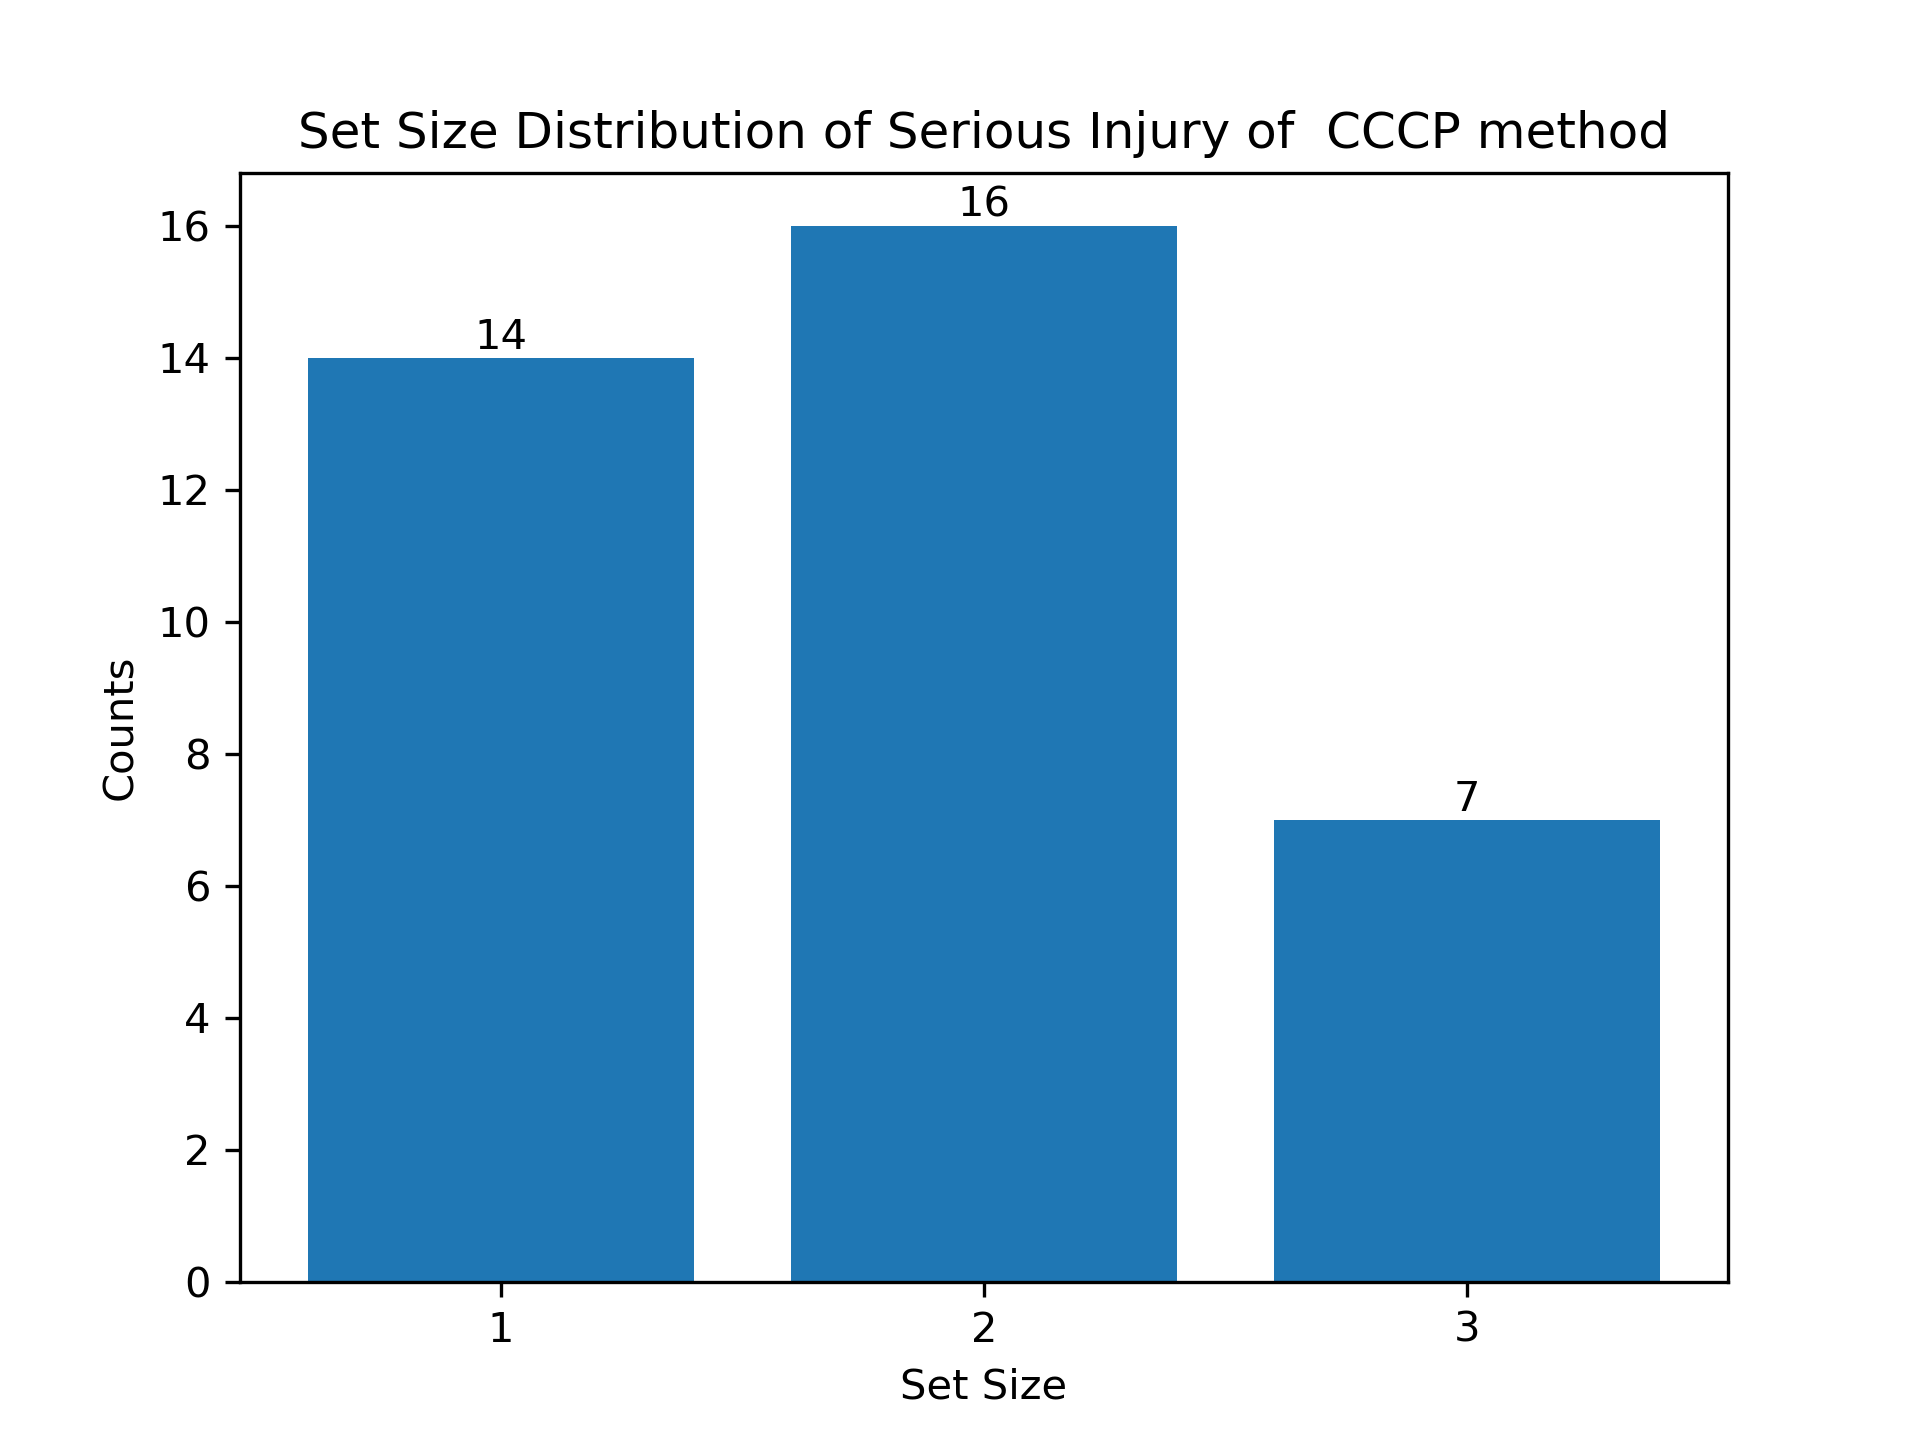
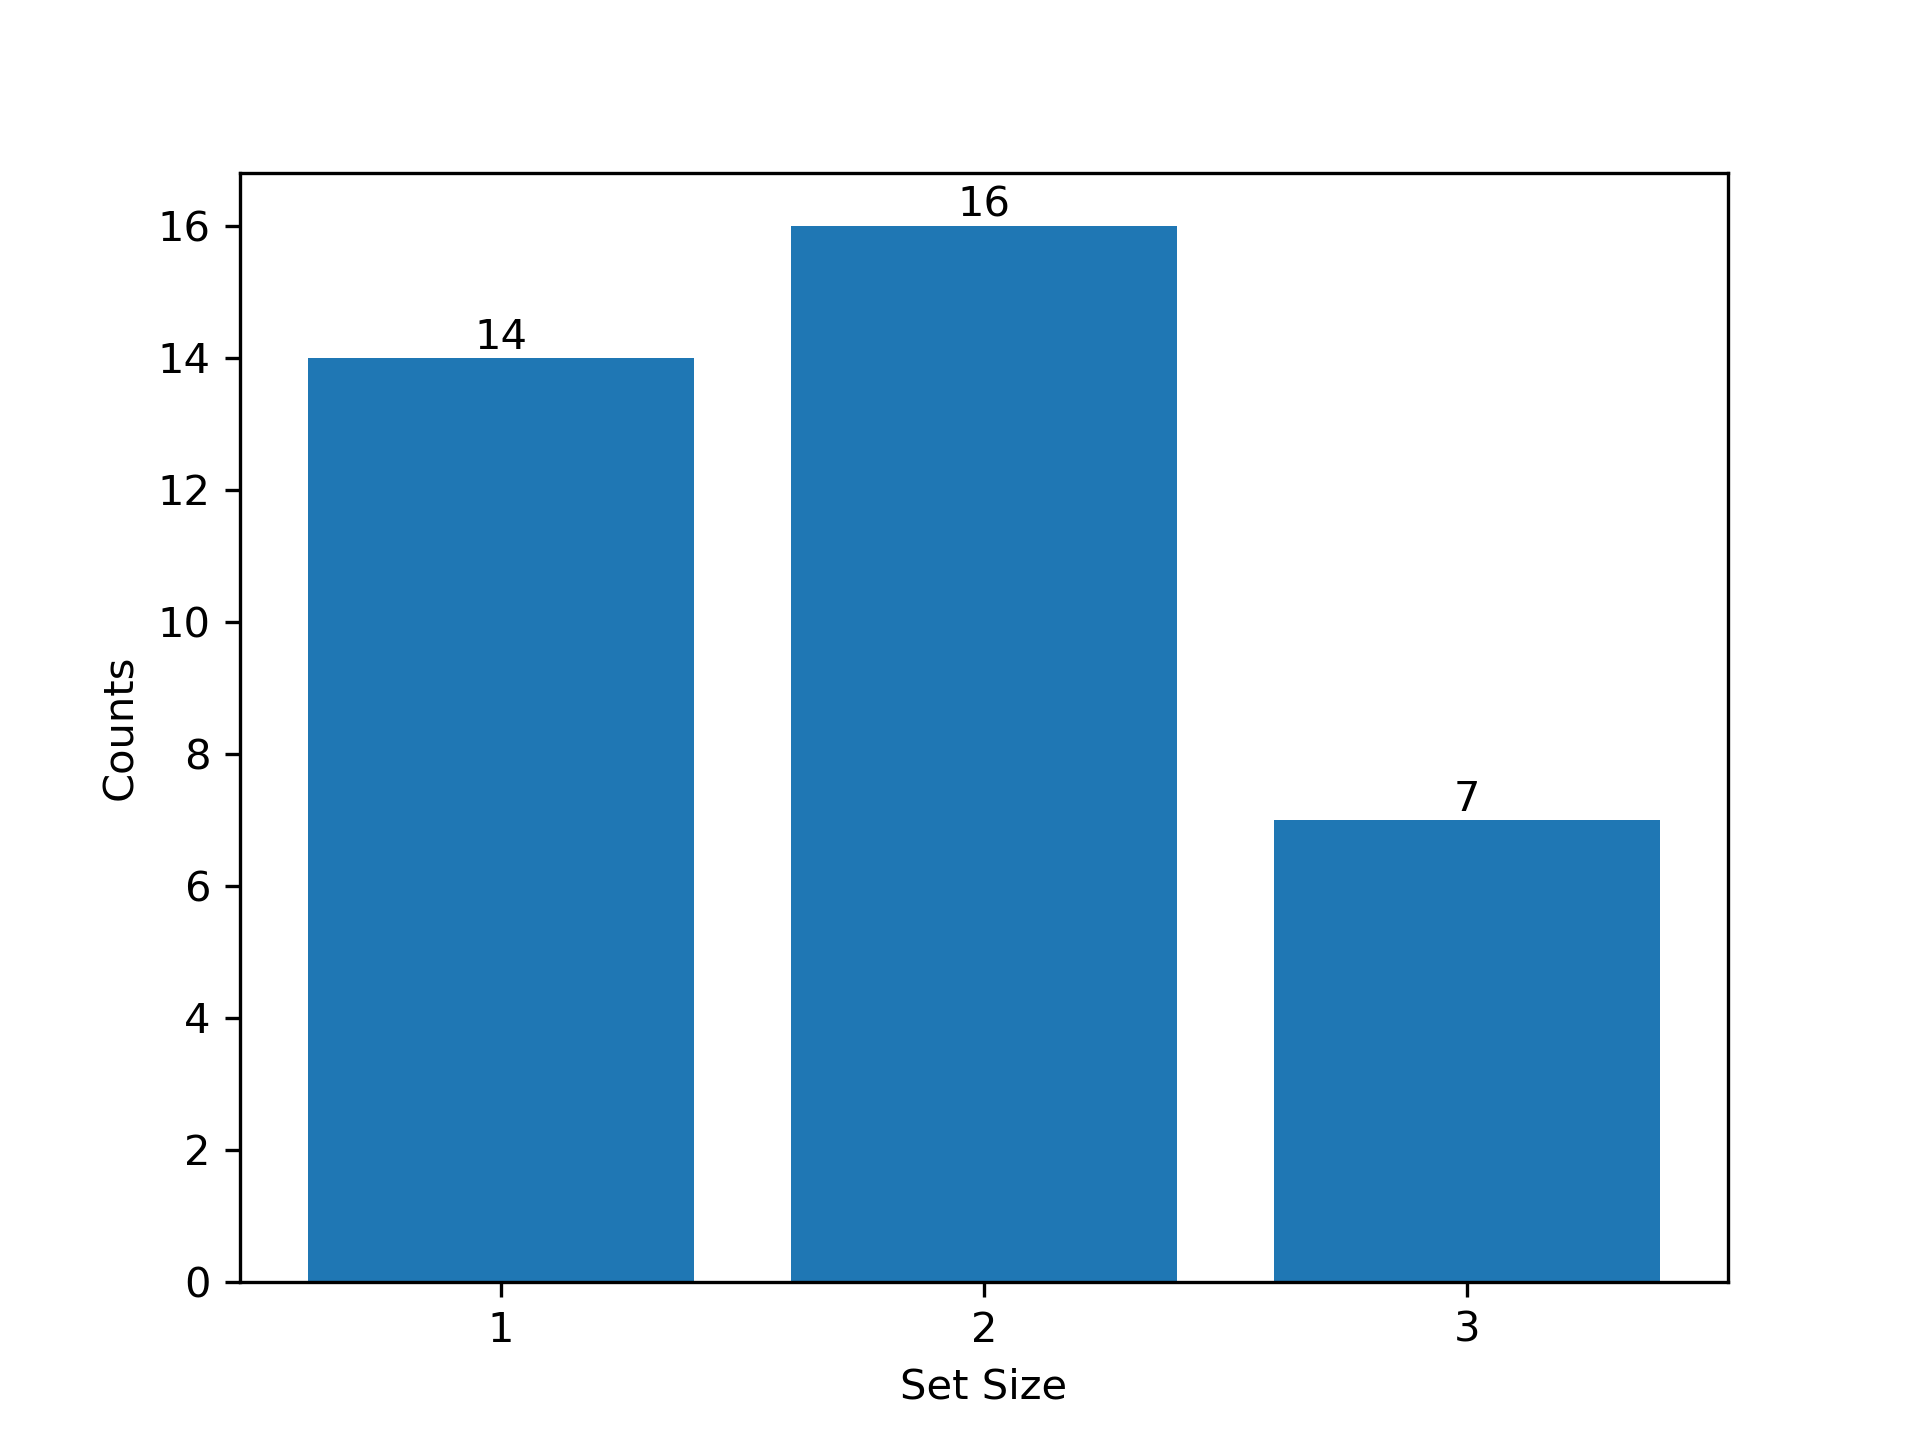
remove captions of subfigure

Changed region(s): [[0.1562, 0.0625, 0.6562, 0.125], [0.6562, 0.0625, 0.875, 0.125]]

diff --git a/src/conformal_algo/eval_CP.py b/src/conformal_algo/eval_CP.py
@@ -92,7 +92,7 @@ def draw_set_sizes(conf_set, cp_type: str, save_path, model_info, alpha, serious
     if serious_only:
         serious = 'Serious Injury of '
 
-    plt.title(f"Set Size Distribution of {serious} {cp_type} method")
+    # plt.title(f"Set Size Distribution of {serious} {cp_type} method")
 
     plt.savefig(
         os.path.join(save_path, f'Set size distribution of {serious} {model_info} under {1 - alpha} confidence level.png'), dpi=300)
@@ -131,7 +131,7 @@ def draw_coverage(conf_set, y_true, cp_type: str, save_path, model_info, alpha):
         plt.text(idx, covered, '%.3f' % covered, ha='center', va='bottom', fontsize=10)
 
     plt.axhline(y=0.9, color='r', linestyle='--')
-    plt.title(f'{cp_type} method coverage')
+    # plt.title(f'{cp_type} method coverage')
     plt.xlabel('Classes')
     plt.ylabel('Coverage')
 
